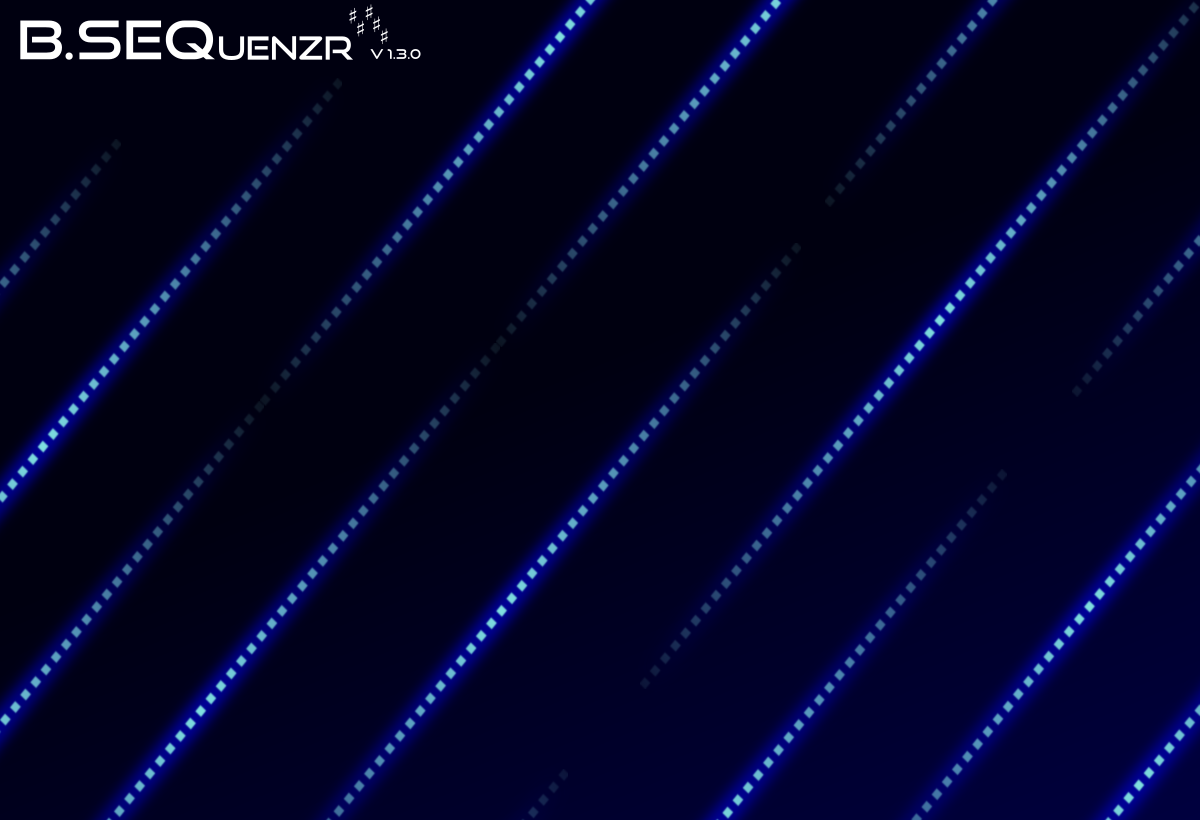
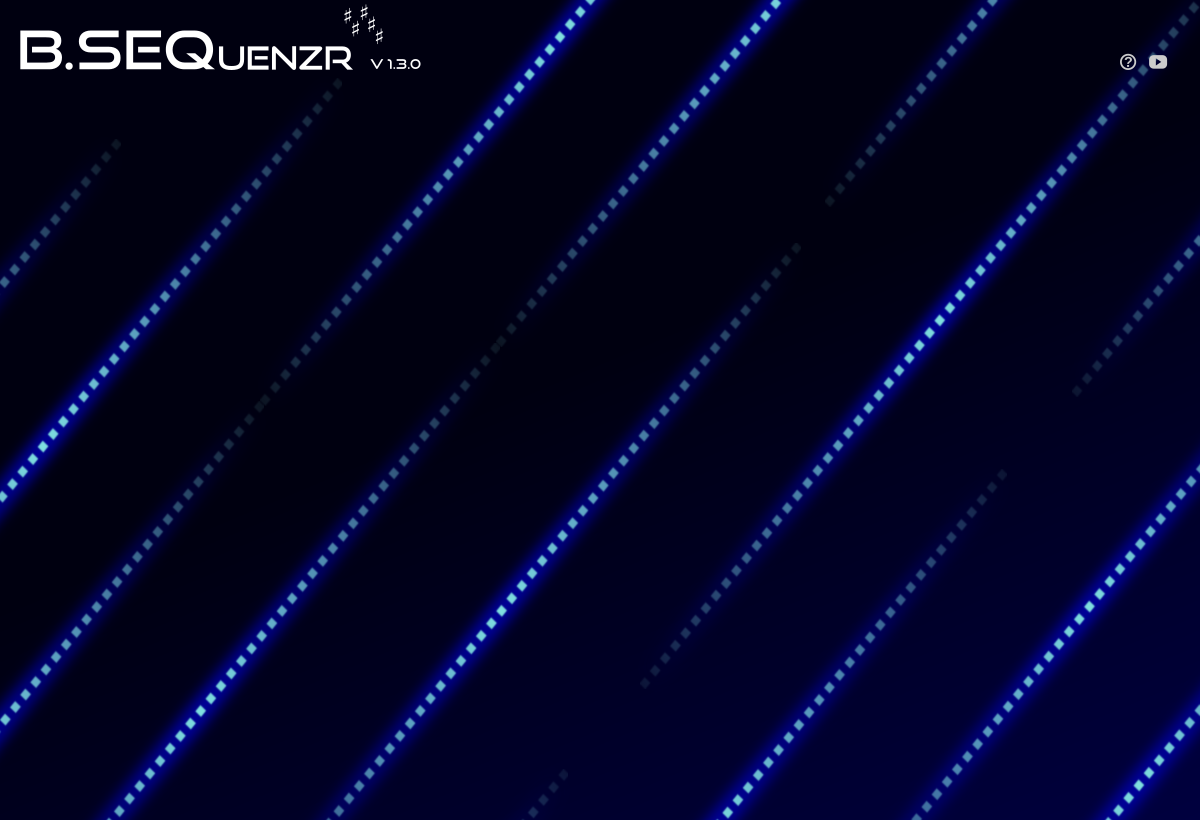
New features video button, help button changed

Changed region(s): [[0.0, 0.0, 0.37, 0.0915], [0.925, 0.061, 0.9867, 0.0915]]

diff --git a/src/HaloButton.hpp b/src/HaloButton.hpp
@@ -1,0 +1,144 @@
+/* B.Harvestr
+ * LV2 Plugin
+ *
+ * Copyright (C) 2019 by Sven Jähnichen
+ *
+ * This program is free software; you can redistribute it and/or modify
+ * it under the terms of the GNU General Public License as published by
+ * the Free Software Foundation; either version 3, or (at your option)
+ * any later version.
+ *
+ * This program is distributed in the hope that it will be useful,
+ * but WITHOUT ANY WARRANTY; without even the implied warranty of
+ * MERCHANTABILITY or FITNESS FOR A PARTICULAR PURPOSE.  See the
+ * GNU General Public License for more details.
+ *
+ * You should have received a copy of the GNU General Public License
+ * along with this program; if not, write to the Free Software Foundation,
+ * Inc., 59 Temple Place - Suite 330, Boston, MA 02111-1307, USA.
+ */
+
+#ifndef HALOBUTTON_HPP_
+#define HALOBUTTON_HPP_
+
+#include "BWidgets/ValueWidget.hpp"
+#include "BWidgets/Focusable.hpp"
+#include "BWidgets/Label.hpp"
+
+class HaloButton : public BWidgets::ValueWidget, public BWidgets::Focusable
+{
+public:
+	HaloButton () : HaloButton (0, 0, 0, 0, "halobutton", "") {}
+
+	HaloButton (const double x, const double y, const double width, const double height, const std::string& name, const std::string& focusText) :
+		ValueWidget (x, y, width, height, name, 0.0),
+		Focusable (std::chrono::milliseconds (BWIDGETS_DEFAULT_FOCUS_IN_MS),
+			   std::chrono::milliseconds (BWIDGETS_DEFAULT_FOCUS_OUT_MS)),
+			   focusLabel_ (0, 0, 40, 20, name_ + BWIDGETS_DEFAULT_FOCUS_NAME, focusText)
+   	{
+   		focusLabel_.setOversize (true);
+   		focusLabel_.resize ();
+   		focusLabel_.hide ();
+   		add (focusLabel_);
+   	}
+
+	HaloButton (const HaloButton& that) :
+		ValueWidget (that), Focusable (that),
+		focusLabel_ (that.focusLabel_)
+	{
+		focusLabel_.hide();
+		add (focusLabel_);
+	}
+
+	HaloButton& operator= (const HaloButton& that)
+	{
+		release (&focusLabel_);
+		focusLabel_ = that.focusLabel_;
+		focusLabel_.hide();
+
+		Widget::operator= (that);
+		Focusable::operator= (that);
+
+		add (focusLabel_);
+
+		return *this;
+
+	}
+
+	virtual BWidgets::Widget* clone () const override {return new HaloButton (*this);}
+
+	virtual void applyTheme (BStyles::Theme& theme) override {applyTheme (theme, name_);}
+
+	virtual void applyTheme (BStyles::Theme& theme, const std::string& name) override
+	{
+		Widget::applyTheme (theme, name);
+		focusLabel_.applyTheme (theme, name + BWIDGETS_DEFAULT_FOCUS_NAME);
+		focusLabel_.resize();
+	}
+
+	virtual void onButtonPressed (BEvents::PointerEvent* event) override
+	{
+		setValue (1.0);
+		Widget::cbfunction_[BEvents::EventType::BUTTON_PRESS_EVENT] (event);
+	}
+
+	virtual void onButtonReleased (BEvents::PointerEvent* event) override
+	{
+		setValue (0.0);
+		Widget::cbfunction_[BEvents::EventType::BUTTON_RELEASE_EVENT] (event);
+	}
+
+	virtual void onFocusIn (BEvents::FocusEvent* event) override
+	{
+		if (event && event->getWidget())
+		{
+			BUtilities::Point pos = event->getPosition();
+			focusLabel_.moveTo (pos.x - 0.5 * focusLabel_.getWidth(), pos.y - focusLabel_.getHeight());
+			focusLabel_.show();
+		}
+		Widget::onFocusIn (event);
+	}
+
+	virtual void onFocusOut (BEvents::FocusEvent* event) override
+	{
+		if (event && event->getWidget()) focusLabel_.hide();
+		Widget::onFocusOut (event);
+	}
+
+protected:
+	BWidgets::Label focusLabel_;
+
+	void draw (const BUtilities::RectArea& area)
+	{
+		if ((!widgetSurface_) || (cairo_surface_status (widgetSurface_) != CAIRO_STATUS_SUCCESS)) return;
+
+		if ((getWidth () >= 1) && (getHeight () >= 1))
+		{
+			// Draw super class widget elements first
+			Widget::draw (area);
+
+			if (value == 1.0)
+			{
+				cairo_t* cr = cairo_create (widgetSurface_);
+				if (cairo_status (cr) == CAIRO_STATUS_SUCCESS)
+				{
+					// Limit cairo-drawing area
+					cairo_rectangle (cr, area.getX (), area.getY (), area.getWidth (), area.getHeight ());
+					cairo_clip (cr);
+
+					double x0 = getXOffset ();
+					double y0 = getYOffset ();
+					double w = getEffectiveWidth ();
+					double h = getEffectiveHeight ();
+					cairo_rectangle (cr, x0, y0, w, h);
+					cairo_set_line_width (cr, 1.0);
+					cairo_set_source_rgba (cr, CAIRO_RGBA (BColors::blue));
+					cairo_stroke (cr);
+					cairo_destroy (cr);
+				}
+			}
+		}
+	}
+};
+
+#endif /* HALOBUTTON_HPP_ */

diff --git a/src/BSEQuencer_GUI.cpp b/src/BSEQuencer_GUI.cpp
@@ -86,10 +86,9 @@ BSEQuencer_GUI::BSEQuencer_GUI (const char *bundle_path, const LV2_Feature *cons
 	propertiesScaleEditIcon (70, 175, 20, 20, "widget", (bundle_path ? std::string (bundle_path) + EDIT_SYMBOL : std::string (""))),
 	propertiesScaleListBox (),
 
-	helpLabel (1140, 40, 30, 30, "ilabel", "?"),
+	helpButton (1116, 50, 24, 24, "halobutton", "Help"),
+	ytButton (1146, 50, 24, 24, "halobutton", "Feature tour"),
 	scaleEditor (nullptr)
-	//(420, 20, 360, 760, "scaleeditor", (bundle_path ? std::string (bundle_path) : std::string ("")), 0, RTScaleMap (), BScale (0,defaultScale))
-
 {
 	// Init scale maps
 	for (int scaleNr = 0; scaleNr < NR_SYSTEM_SCALES + NR_USER_SCALES; ++scaleNr)
@@ -182,7 +181,8 @@ BSEQuencer_GUI::BSEQuencer_GUI (const char *bundle_path, const LV2_Feature *cons
 	toolUndoButton.setCallbackFunction(BEvents::VALUE_CHANGED_EVENT, undoClickedCallback);
 	toolRedoButton.setCallbackFunction(BEvents::VALUE_CHANGED_EVENT, undoClickedCallback);
 
-	helpLabel.setCallbackFunction(BEvents::BUTTON_PRESS_EVENT, helpPressedCallback);
+	helpButton.setCallbackFunction(BEvents::BUTTON_PRESS_EVENT, helpPressedCallback);
+	ytButton.setCallbackFunction(BEvents::BUTTON_PRESS_EVENT, ytPressedCallback);
 	propertiesScaleEditIcon.setCallbackFunction(BEvents::BUTTON_PRESS_EVENT, editPressedCallback);
 
 	// Apply theme
@@ -278,7 +278,8 @@ BSEQuencer_GUI::BSEQuencer_GUI (const char *bundle_path, const LV2_Feature *cons
 	mContainer.add (toolBox);
 	mContainer.add (modeBox);
 	mContainer.add (propertiesBox);
-	mContainer.add (helpLabel);
+	mContainer.add (helpButton);
+	mContainer.add (ytButton);
 	mContainer.add (padSurface);
 	for (int i = 0; i < NR_SEQUENCER_CHS; ++i) mContainer.add (chBoxes[i].box);
 
@@ -596,7 +597,8 @@ void BSEQuencer_GUI::scale ()
 	propertiesScaleListBox.moveListBox (BUtilities::Point (0, -420 * sz));
 	propertiesScaleListBox.resizeListBoxItems (BUtilities::Point (150 * sz, 20 * sz));
 
-	RESIZE (helpLabel, 1140, 40, 30, 30, sz);
+	RESIZE (helpButton, 1116, 50, 24, 24, sz);
+	RESIZE (ytButton, 1146, 50, 24, 24, sz);
 	if (scaleEditor) {RESIZE ((*scaleEditor), 420, 20, 360, 760, sz);}
 
 	for (int i = 0; i < NR_SEQUENCER_CHS; ++i)
@@ -722,7 +724,8 @@ void BSEQuencer_GUI::applyTheme (BStyles::Theme& theme)
 		chBoxes[i].noteOffsetLabel.applyTheme (theme);
 	}
 
-	helpLabel.applyTheme (theme);
+	helpButton.applyTheme (theme);
+	ytButton.applyTheme (theme);
 	//scaleEditor.applyTheme (theme);
 }
 
@@ -899,6 +902,8 @@ void BSEQuencer_GUI::valueChangedCallback(BEvents::Event* event)
 }
 
 void BSEQuencer_GUI::helpPressedCallback (BEvents::Event* event) {system(OPEN_CMD " " HELP_URL);}
+
+void BSEQuencer_GUI::ytPressedCallback (BEvents::Event* event) {system(OPEN_CMD " " YT_URL);}
 
 void BSEQuencer_GUI::editPressedCallback (BEvents::Event* event)
 {

diff --git a/src/BSEQuencer_GUI.hpp b/src/BSEQuencer_GUI.hpp
@@ -49,7 +49,7 @@
 #include "drawbutton.hpp"
 #include "PlayStopButton.hpp"
 #include "ButtonBox.hpp"
-#include "CircledSymbol.hpp"
+#include "HaloButton.hpp"
 #include "ResetButton.hpp"
 #include "UndoButton.hpp"
 #include "RedoButton.hpp"
@@ -66,6 +66,7 @@
 #define BG_FILE "surface.png"
 #define EDIT_SYMBOL "EditSymbol.png"
 #define HELP_URL "https://github.com/sjaehn/BSEQuencer/wiki/B.SEQuencer"
+#define YT_URL "https://www.youtube.com/watch?v=J6bU4GdUVYc"
 #define OPEN_CMD "xdg-open"
 
 #define RESIZE(widget, x, y, w, h, sz) widget.moveTo ((x) * (sz), (y) * (sz)); widget.resize ((w) * (sz), (h) * (sz));
@@ -89,6 +90,7 @@ public:
 private:
 	static void valueChangedCallback(BEvents::Event* event);
 	static void helpPressedCallback (BEvents::Event* event);
+	static void ytPressedCallback (BEvents::Event* event);
 	static void editPressedCallback (BEvents::Event* event);
 	static void resetClickedCallback (BEvents::Event* event);
 	static void undoClickedCallback (BEvents::Event* event);
@@ -214,7 +216,8 @@ private:
 
 	std::array<ChBox, NR_SEQUENCER_CHS> chBoxes;
 
-	CircledSymbol helpLabel;
+	HaloButton helpButton;
+	HaloButton ytButton;
 	ScaleEditor* scaleEditor;
 
 	// Definition of styles
@@ -312,6 +315,9 @@ private:
 					 {"bgcolors", STYLEPTR (&tgBgColors)},
 					 {"font", STYLEPTR (&tgLabelFont)}}},
 		{"tgbutton/focus",	{{"uses", STYLEPTR (&focusStyles)}}},
+		{"halobutton", 		{{"uses", STYLEPTR (&defaultStyles)},
+					 {"fgcolors", STYLEPTR (&bgColors)}}},
+		{"halobutton/focus", {{"uses", STYLEPTR (&focusStyles)}}},
 		{"dial", 		{{"uses", STYLEPTR (&defaultStyles)},
 					 {"fgcolors", STYLEPTR (&fgColors)},
 					 {"bgcolors", STYLEPTR (&bgColors)},

diff --git a/README.md b/README.md
@@ -63,7 +63,8 @@ Key features
 
 What's new
 ----------
-* Merge pads
+* Merge pads option
+* Button link to features video
 
 
 Usage
